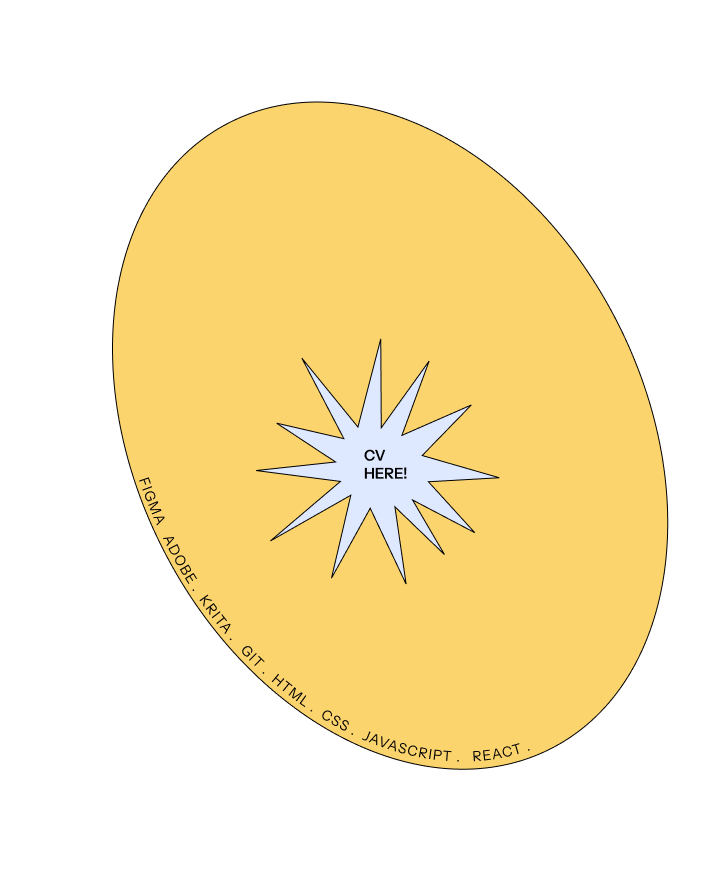
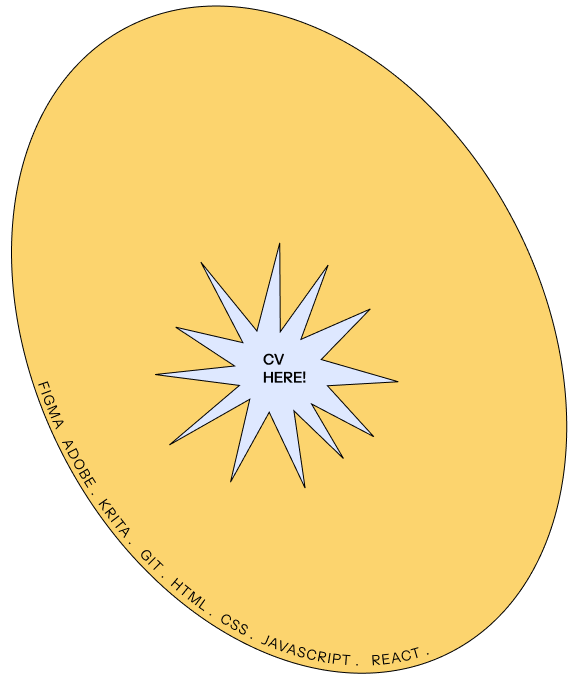
Fix responsive version

Changed region(s): [[0.0, 0.0, 0.9948, 1.0], [0.2798, 0.3663, 0.715, 0.702]]

diff --git a/style.css b/style.css
@@ -7,22 +7,22 @@ body {
   min-height: 100vh;
   max-width: var(--content-width);
   margin: 0 auto;            
-  display: block;
-  padding: 0 16px;           
+  display: block;      
   box-sizing: border-box;
 }
-
 
 header {
   font-family: Arial, Helvetica, sans-serif;
   color: #000;
+  background-color: #FFF9F5;
   font-size: 0.7rem;
   display: flex;
-  padding-top: 2em;
   justify-content: center;
-  max-width: var(--content-width);
-  margin: 0 auto;           
+  max-width: 1245px;        
   width: 100%;
+  position: sticky;
+  top: 0;
+  margin: 2em;
 }
 
 
@@ -32,7 +32,7 @@ header a:visited,
 header a:active {
   color: #000000;
   text-decoration: none;
-  margin: 0 110px;
+  
 
 }
 
@@ -46,8 +46,12 @@ header .about-btn,
 header .work-btn,
 header .contact-btn {
   color: #000;
-  margin: 0;
-  padding: 2em;
+  gap: 4em;
+  margin: 10em;
+}
+
+.header-inner {
+padding: 2em;
 }
 
 .wrapper {
@@ -339,30 +343,159 @@ footer a:hover {
   color: #F74526;
 }
 
-/* responsive: stack on small screens */
-@media (max-width: 700px) {
-  .about { flex-direction: column; }
-}
 
-/* responsive breakpoints */
+
+
+/* =========================
+   TABLET
+========================= */
+
 @media (max-width: 900px) {
-  .work .grid {
-    grid-template-columns: repeat(2, 1fr);
+  .cv-column {
+    flex: 0 0 140px;
+  }
+
+  .card img,
+  .card-TW img {
+    height: 160px;
+  }
+
+  .card-TW .card-tw-row img {
+    width: 45%;
   }
 }
 
-@media (max-width: 520px) {
-  .work .grid {
-    grid-template-columns: 1fr;
-  }
-}
+/* =========================
+   MOBILE
+========================= */
 
 @media (max-width: 700px) {
-  .home {
-    flex-direction: column;
-  }
-  .cv-column {
-    flex: none;
-    width: 100%;
-  }
+      body {
+        padding: 0 12px;
+        align-items: center;
+      }
+
+      header {
+        flex-wrap: wrap;
+        gap: 8px;
+        padding: 18px 0;
+      }
+
+      .about {
+        flex-direction: column;
+        padding: 12px 0;
+      }
+
+      .about-column {
+        order: 1;
+      }
+
+      .cv-column {
+        order: 2;
+        width: 100%;
+        flex: none;
+      }
+
+    .wrapper {
+      width: 100%;
+      max-width: 1245px;
+      margin: 0 auto;
+    }
+
+    /* =========================
+      HEADER
+    ========================= */
+
+    header {
+      position: relative;
+      display: flex;
+      justify-content: center;
+      gap: 12px;
+      width: 100%;
+      padding: 28px 0;
+      font-size: 0.7rem;
+    }
+
+    .header-inner {
+      position: sticky;
+      display: flex;
+      justify-content: center;
+      align-items: center;
+    }
+
+    header a {
+      color: var(--text);
+      text-decoration: none;
+      padding: 10px;
+
+    }
+
+    header a:hover {
+      color: var(--accent);
+    }
+
+
+    /* =========================
+      ABOUT SECTION
+    ========================= */
+
+    .about {
+      display: flex;
+      gap: 24px;
+      align-items: stretch;
+      width: 100%;
+      padding: 20px 0;
+    }
+
+    .about-column {
+      flex: 1;
+      display: flex;
+      flex-direction: column;
+      gap: 16px;
+    }
+
+
+    .blue {
+      padding: 16px;
+      background: #DEE8FF;
+      border: 1px solid #000;
+      font-size: 1.05rem;
+    }
+
+    .green {
+      flex: 1;
+      padding: 18px;
+      background: #A0DC87;
+      border: 1px solid #000;
+      line-height: 1.6;
+    }
+
+    .work {
+      background-color: #F74526;
+      border: 1px solid #000;
+    }
+
+
+ 
+    /* make Work section a single column on mobile */
+    .work .grid {
+      display: flex;
+      flex-direction: column;
+      align-items: stretch;
+      width: 100%;
+    }
+
+    /* make each card fill the column width */
+    .work .grid > .card,
+    .work .grid > .card-TW,
+    .work .grid > .red {
+      width: 100%;
+      max-width: 100%;
+
+    }
+
+    .red {
+      border: #F74526 solid 1px;
+    }
+
 }

diff --git a/index.html b/index.html
@@ -7,18 +7,21 @@
   <!--Fonts-->
   <link href="https://fonts.googleapis.com/css2?family=MedievalSharp&family=Space+Mono&display=swap" rel="stylesheet">
 
-  <!--CSS -->
+  <!--CSS-->
   <link rel="stylesheet" href="./style.css">
 </head>
 
 <body>
 <header>
-  <section id="Home" class="home">
-    <a href="#Home" class="home-btn">HOME</a>
-    <a href="#About" class="about-btn">ABOUT</a>
-    <a href="#Work" class="work-btn">WORK</a>
-    <a href="#Contact" class="contact-btn">CONTACT</a>
-  </section>
+  <div class="header-inner">
+
+    <nav class="nav" id="main-nav">
+      <a href="#Home" class="home-btn">HOME</a>
+      <a href="#About" class="about-btn">ABOUT</a>
+      <a href="#Work" class="work-btn">WORK</a>
+      <a href="#Contact" class="contact-btn">CONTACT</a>
+    </nav>
+  </div>
 </header>
 
 <div class="wrapper">
@@ -26,7 +29,9 @@
           <div class="about-column">
             <div class="blue">   
               <h1>
-                HELLO! IM ISABEL TEGSTRÖM.  
+                HELLO! IM ISABEL TEGSTRÖM.
+              </h1>  
+              <h1>
                 A FRONTEND STUDENT AND CREATIVE!  
               </h1>
             </div>
@@ -146,5 +151,7 @@
       <a href="https://github.com/tegstroem" target="_blank">GITHUB</a>
     </section>
 </footer>
+  <!--JS-->
+  <script src="script.js"></script>
 </body>
 </html>
